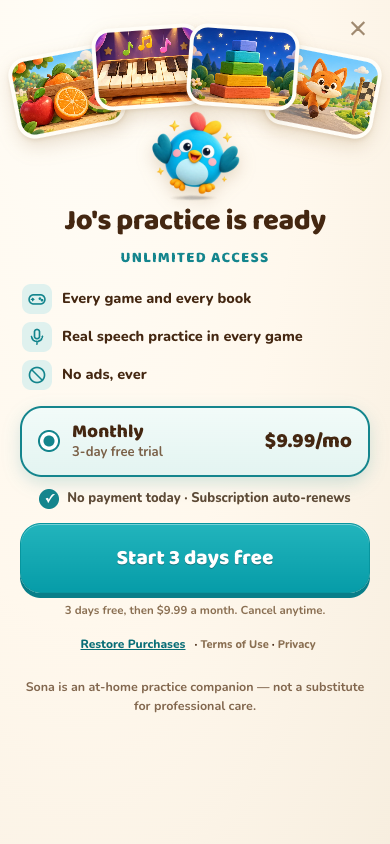
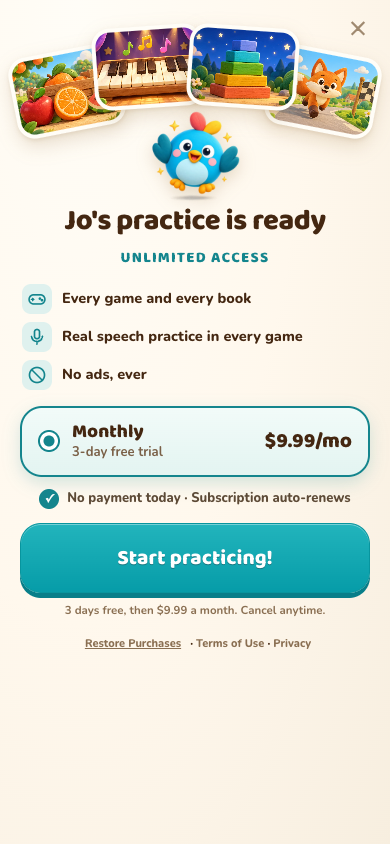
Price screen: 'Start practicing!', a plain Restore link, no companion line

diff --git a/public/subscribe.html b/public/subscribe.html
@@ -337,7 +337,7 @@
     /* Travis, 6 Oct 2026: "Get rid of not now ... just like a subtle X in the
        top right", no header, no Rachel line under the offer. The X IS the
        decline link (same href, same handler), so it leaves the same way. */
-    body.onerow.offer .family-header,body.onerow.offer #offerRachel{display:none !important;}
+    body.onerow.offer .family-header,body.onerow.offer #offerRachel,body.onerow.offer #careLine{display:none !important;}
     body.onerow.offer #declineRow{position:absolute;top:calc(env(safe-area-inset-top) + 8px);right:10px;margin:0 !important;z-index:5;}
     body.onerow.offer #declineLink{width:44px !important;height:44px;min-height:0;padding:0 !important;font-size:0;line-height:44px;background:transparent;border:0;box-shadow:none;color:#a08a70;}
     body.onerow.offer #declineLink:before{content:"\2715";font-size:19px;font-weight:800;}
@@ -498,7 +498,7 @@
            their spacing, and an inline margin would beat them -->
       <p class="muted" id="iapMsg" role="status" aria-live="polite"></p>
       <p id="iapLegal">
-        <button id="iapRestore" style="border:none;background:none;color:var(--blue-d);font-weight:800;font-size:12px;cursor:pointer;padding:4px 6px;text-decoration:underline;">Restore Purchases</button>
+        <button id="iapRestore" style="border:none;background:none;color:#8a6f52;font:inherit;cursor:pointer;padding:4px 6px;text-decoration:underline;">Restore Purchases</button>
         · <a href="/terms" style="color:#8a6f52;">Terms of Use</a>
         · <a href="/privacy" style="color:#8a6f52;">Privacy</a>
       </p>
@@ -691,7 +691,7 @@
          stated option, next to the price rather than under the footer, and it
          goes back to a home screen that still has the demonstration on it. -->
 
-    <p class="muted" style="text-align:center;margin-top:22px;font-size:12.5px;font-weight:700;max-width:420px;margin-left:auto;margin-right:auto;">
+    <p class="muted" id="careLine" style="text-align:center;margin-top:22px;font-size:12.5px;font-weight:700;max-width:420px;margin-left:auto;margin-right:auto;">
       Sona is an at-home practice companion — not a substitute for professional care.
     </p>
   </div>

diff --git a/public/sona.js b/public/sona.js
@@ -5643,7 +5643,7 @@
     const TRIAL = (N > 0 && UNIT) ? N + "-" + UNIT + " free trial" : FREE + " free";
     w.state = "free";
     w.price = FREE + " free, then " + PP + ".";          // Travis's line (5 Oct 2026), built from the store's two answers
-    w.button = "Start " + FREE + " free";
+    w.button = "Start practicing!";                      // Travis, 6 Oct 2026; the free days and the price are on the row and under the button
     if (plan.sure === true) {
       w.title = "Start Sona Premium with " + FREE + " free";
       w.sub = TRIAL;

diff --git a/CLAUDE.md b/CLAUDE.md
@@ -217,9 +217,12 @@ changing one. What follows from the rule:
   (every game and every book · real speech practice in every game · "No ads,
   ever"), then one row that looks like a picked radio: "Monthly" over "3-day
   free trial", the store's price as "$9.99/mo" on the right. Under it one
-  check line, "No payment today · Subscription auto-renews", the button, and
-  one small line: "3 days free, then $9.99 a month. Cancel anytime." No
-  header, no line under the headline, no Rachel line under the offer (her
+  check line, "No payment today · Subscription auto-renews", the button
+  ("Start practicing!", his words; charged today it stays "Subscribe — $9.99
+  a month"), and one small line: "3 days free, then $9.99 a month. Cancel
+  anytime." Restore Purchases looks like Terms and Privacy beside it. No
+  header, no line under the headline, no "at-home practice companion" line,
+  no Rachel line under the offer (her
   line is still on setup's ready screen and on Settings › Your plan). **The X
   IS "Not now"** (the same link, labelled "Not now" for a screen reader), so
   it leaves exactly as before. Every word is still `Sona.planWords`' and the
